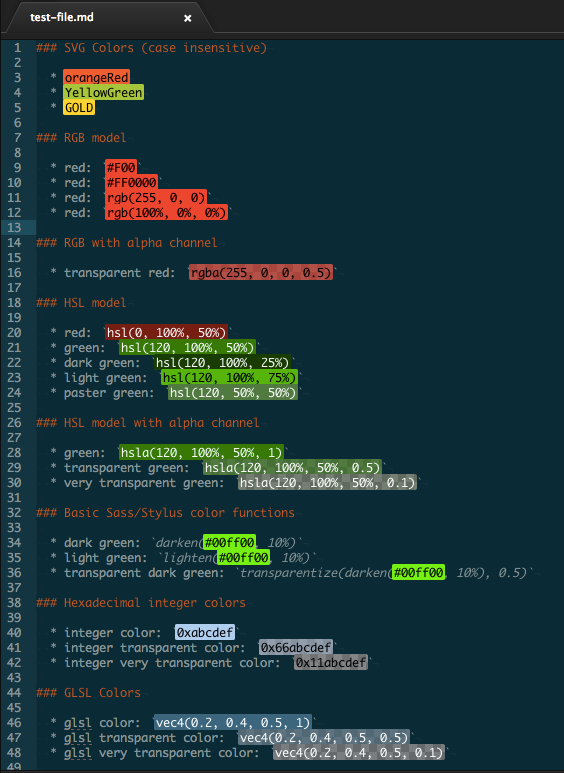
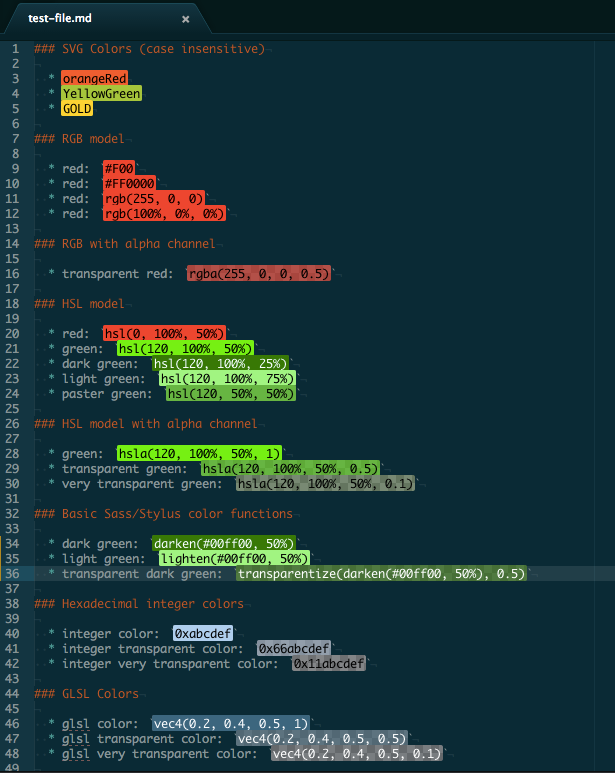
Adds support for hsv and color functions
Currently the following functions are supported:

 - darken
 - lighten
 - transparentize

Changed region(s): [[0.0, 0.0, 1.0, 1.0]]

diff --git a/spec/test-file.md b/spec/test-file.md
@@ -31,9 +31,9 @@
 
 ### Basic Sass/Stylus color functions
 
-  * dark green: `darken(#00ff00, 10%)`
-  * light green: `lighten(#00ff00, 10%)`
-  * transparent dark green: `transparentize(darken(#00ff00, 10%), 0.5)`
+  * dark green: `darken(#00ff00, 50%)`
+  * light green: `lighten(#00ff00, 50%)`
+  * transparent dark green: `transparentize(darken(#00ff00, 50%), 0.5)`
 
 ### Hexadecimal integer colors
 
